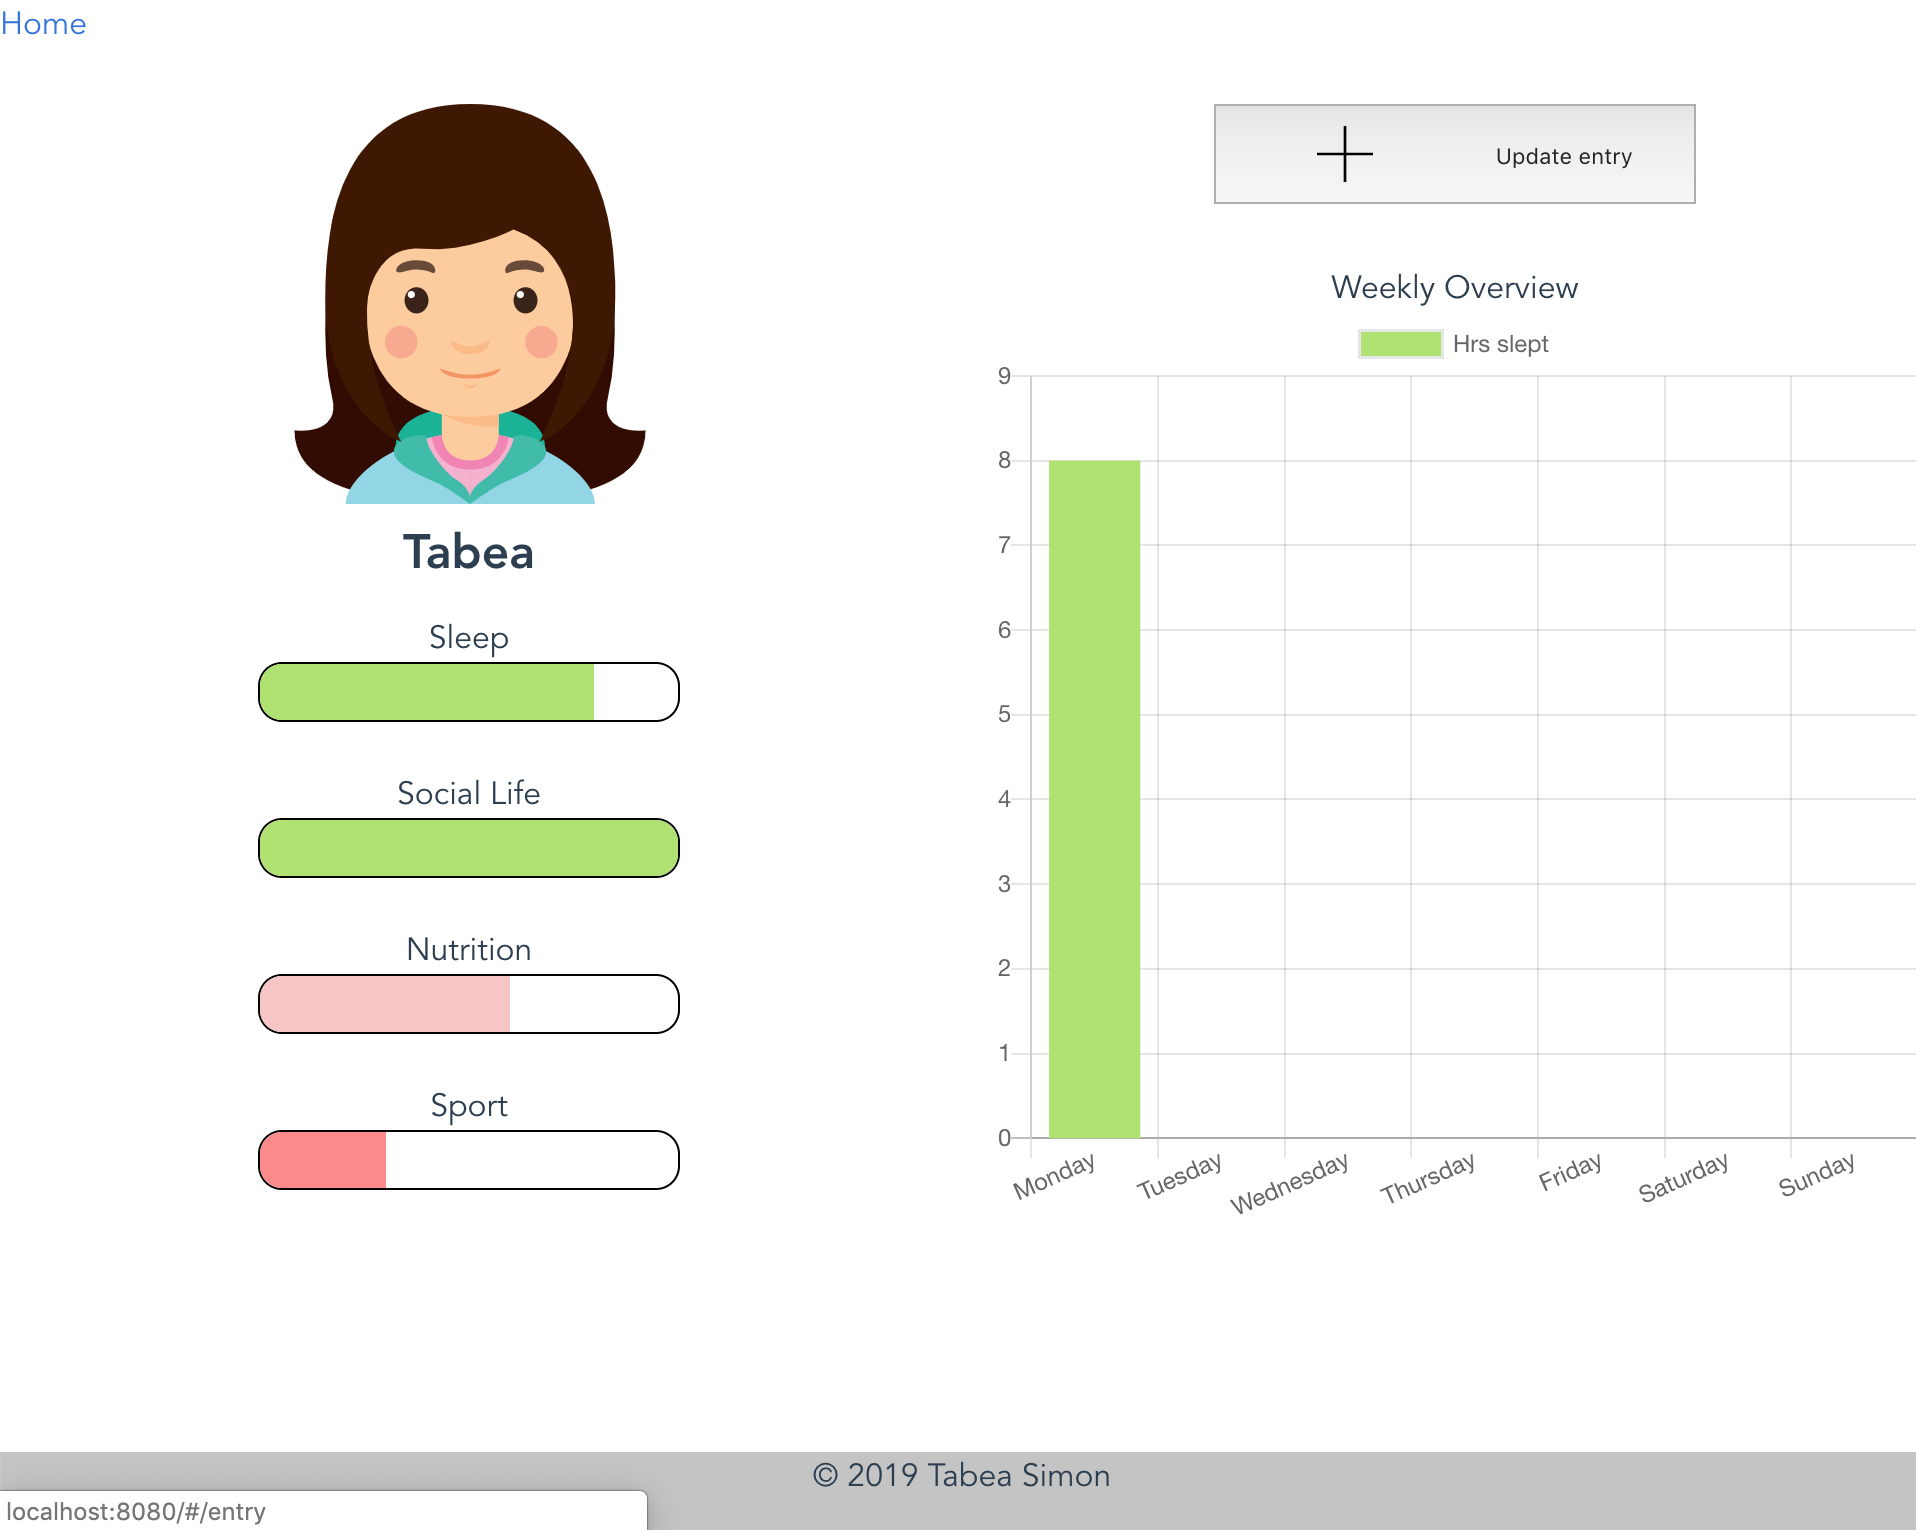
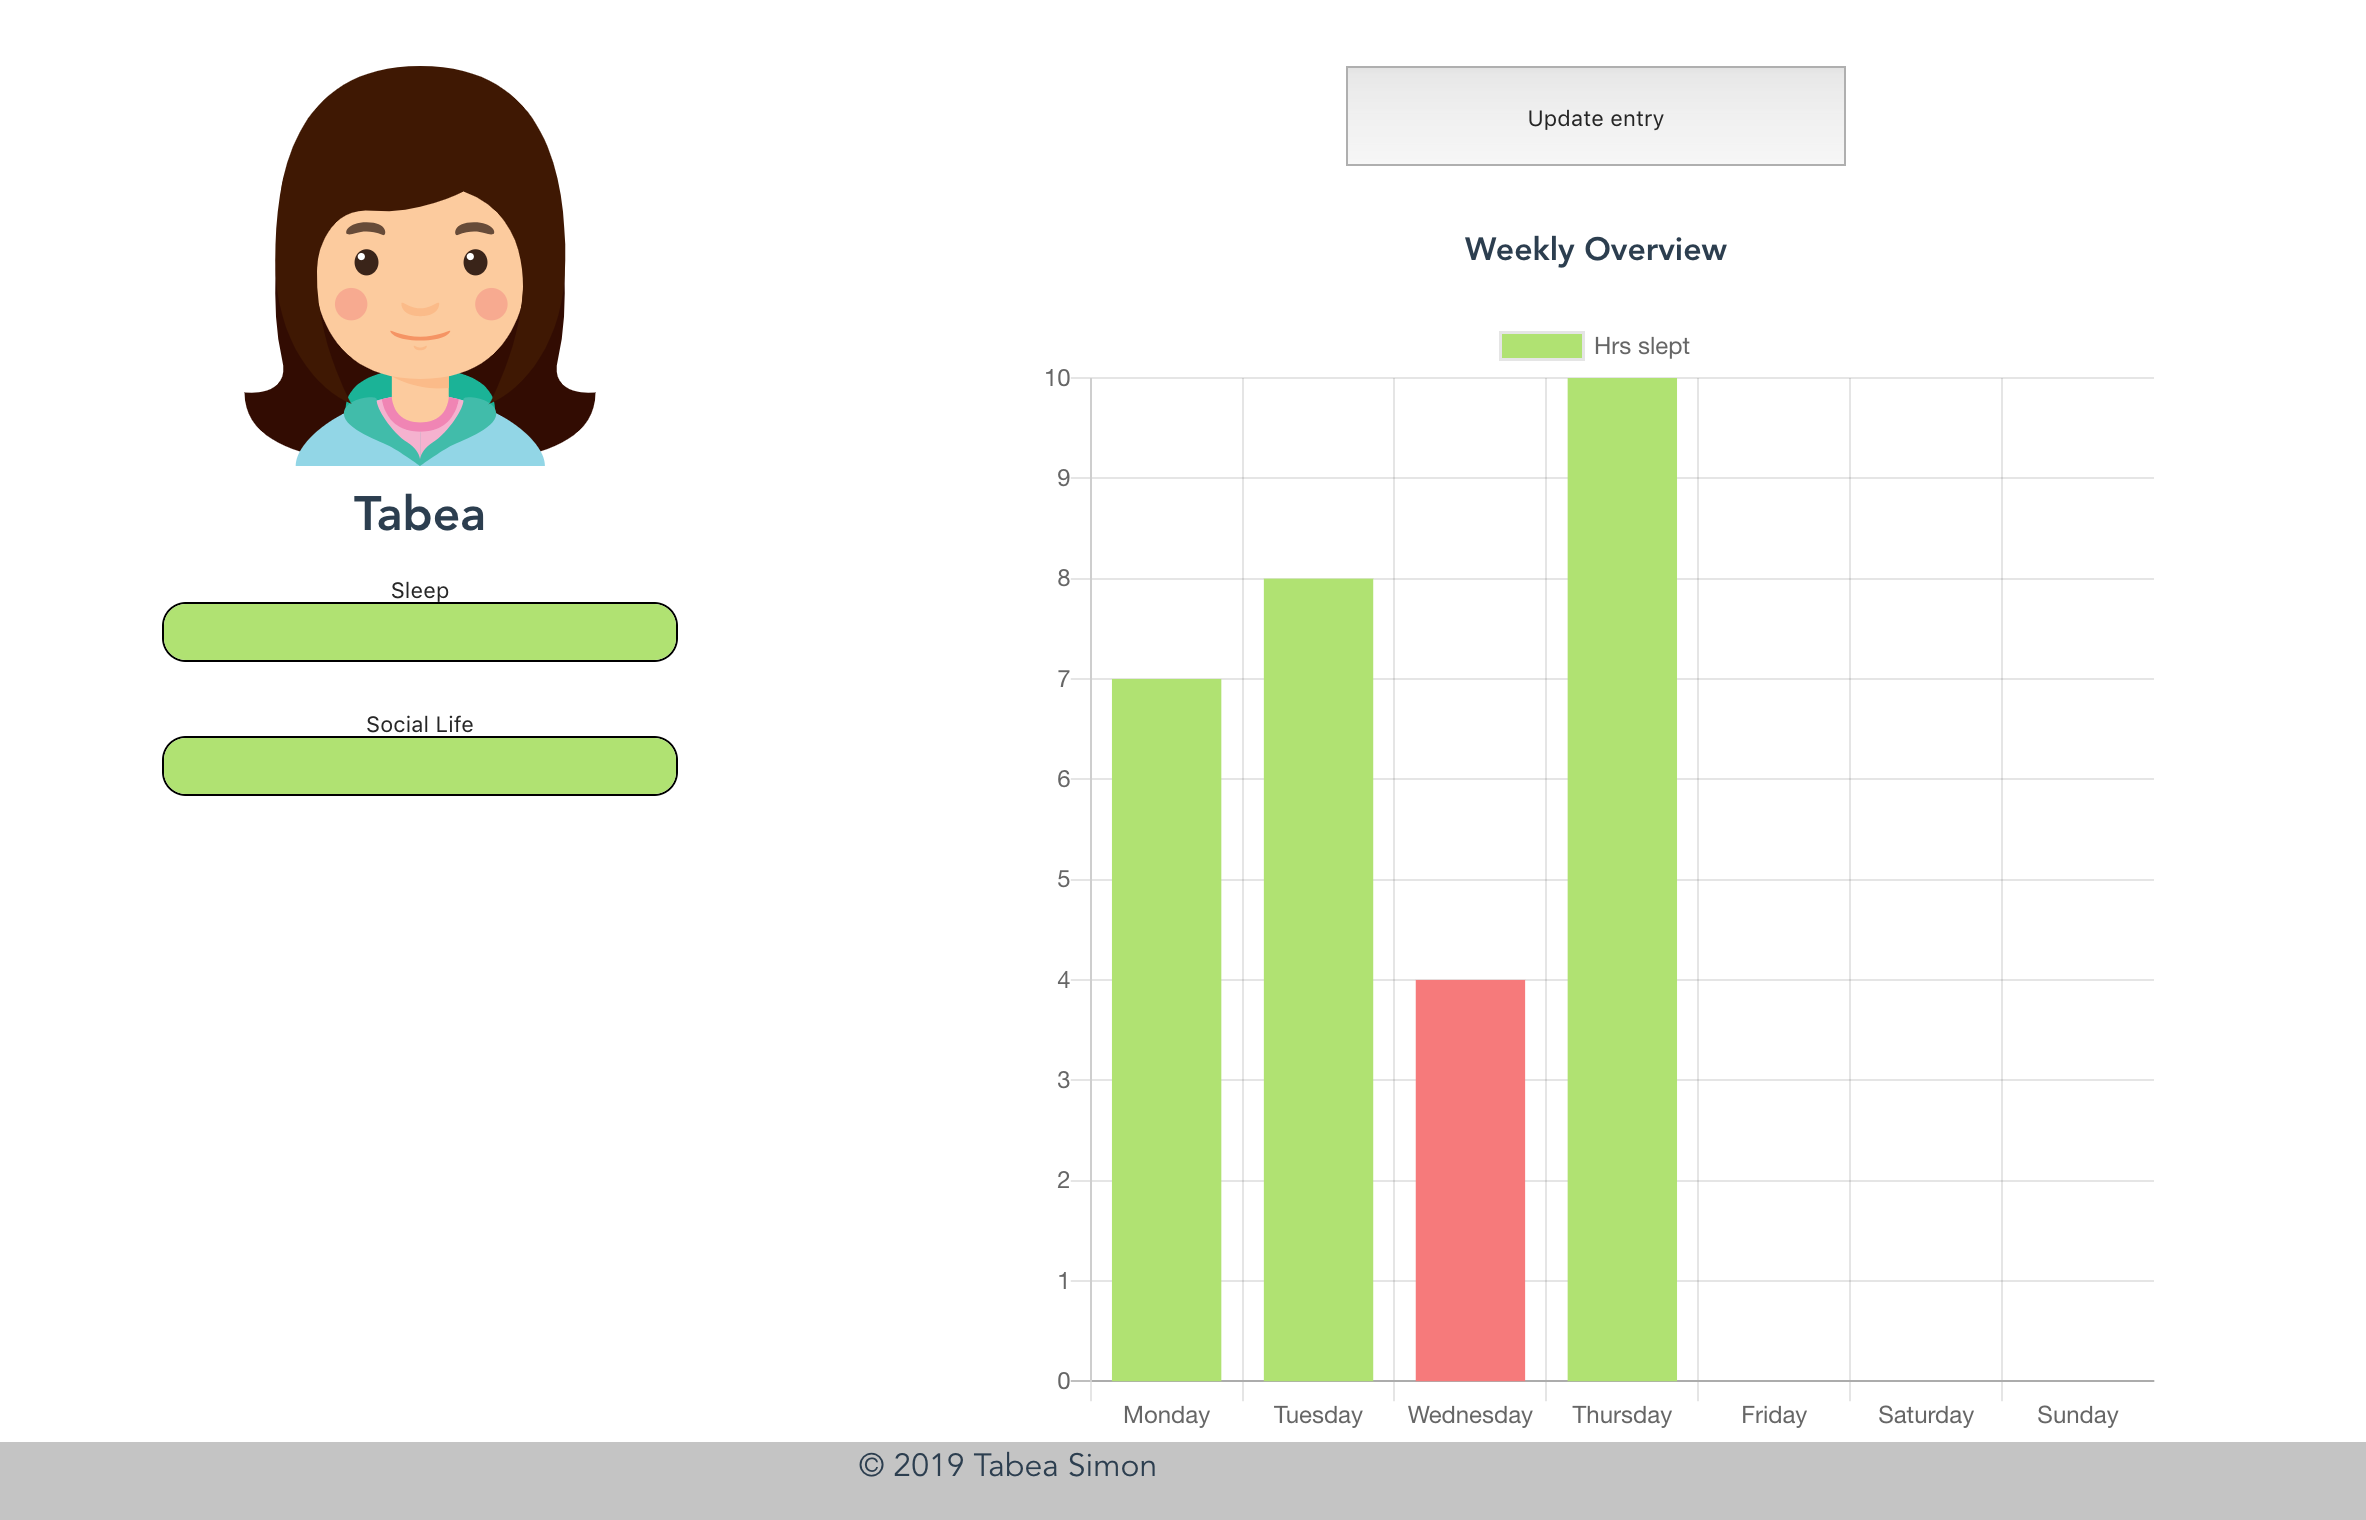
Adjust Social data + PR comments

diff --git a/src/store/index.js b/src/store/index.js
@@ -10,9 +10,7 @@ export const store = new Vuex.Store({
     state: {
         needs: [
             {id: 1, name: 'Sleep', status: 0},
-            {id: 2, name: 'Social Life', status: 0},
-            {id: 3, name: 'Nutrition', status: 60},
-            {id: 4, name: 'Sport', status: 30}
+            {id: 2, name: 'Social Life', status: 0}
         ],
         entries: [
             {sleep: [
@@ -45,7 +43,36 @@ export const store = new Vuex.Store({
                     hrsSlept: 0,
                 }
             ]},
-            {social: []}
+            {social: [
+                {
+                    weekday: "Monday",
+                    socialized: 0,
+                },
+                {
+                    weekday: "Tuesday",
+                    socialized: 0,
+                },
+                {
+                    weekday: "Wednesday",
+                    socialized: 0,
+                },
+                {
+                    weekday: "Thursday",
+                    socialized: 0,
+                },
+                {
+                    weekday: "Friday",
+                    socialized: 0,
+                },
+                {
+                    weekday: "Saturday",
+                    socialized: 0,
+                },
+                {
+                    weekday: "Sunday",
+                    socialized: 0,
+                }
+            ]}
         ],
         weeklyEntriesSleep: [],
         weeklyEntriesSocial: [],
@@ -127,8 +154,8 @@ export const store = new Vuex.Store({
                             timeStamp: time,
                         })
                         .then(() => {
-                            router.push({name:'home'})                          
-                        })
+                            router.push({name:'home'});                          
+                        });
                     } 
                     else {
                         // First entry of that date
@@ -140,8 +167,8 @@ export const store = new Vuex.Store({
                             weekday: weekDay
                         })
                         .then(() => {
-                            router.push({name:'home'})                          
-                        })
+                            router.push({name:'home'});                     
+                        });
                     } 
             });
         },
@@ -154,7 +181,8 @@ export const store = new Vuex.Store({
 
             // Get Social entry of the day
             firebase.firestore().collection('needs/2/social').where("timeStamp", ">", from_date).orderBy("timeStamp", "desc").get().then((querySnapshot)=>{
-                let social = []
+                let social = [];
+
                 querySnapshot.forEach(doc=>{
                   social.push(doc.data())
                 })
@@ -162,15 +190,20 @@ export const store = new Vuex.Store({
                     this.state.needs[1].status = social[0].socialized;
                 }
                 else {
-                    this.state.needs[1].status = 0
+                    this.state.needs[1].status = 0;
                 }
-            })
+            });
 
             // Get Sleep entries of the week
-            firebase.firestore().collection('needs/1/sleep').where("timeStamp", ">", from_date).orderBy("timeStamp", "desc").get().then((querySnapshot)=>{
+            firebase.firestore()
+            .collection('needs/1/sleep')
+            .where("timeStamp", ">", from_date)
+            .orderBy("timeStamp", "desc")
+            .get()
+            .then((querySnapshot)=>{
                 querySnapshot.forEach(doc=>{
-                    let day = this.state.entries[0].sleep.find(obj => obj.weekday == doc.data().weekday)
-                    day.hrsSlept = doc.data().hrsSlept
+                    let day = this.state.entries[0].sleep.find(obj => obj.weekday == doc.data().weekday);
+                    day.hrsSlept = doc.data().hrsSlept;
                 })
                 
                 // Set Needbar quantity to entry of current day 
@@ -185,37 +218,38 @@ export const store = new Vuex.Store({
                 this.state.chartColors = [];
                 this.state.weeklyEntriesSleep.forEach(entry => {
                     if (entry >= 7) {
-                        this.state.chartColors.push('rgb(175, 228, 107)')
+                        this.state.chartColors.push('rgb(175, 228, 107)');
                     } else {
-                        this.state.chartColors.push('#f87979')
+                        this.state.chartColors.push('#f87979');
                     }
                 });
             })
 
-            firebase.firestore().collection('needs/2/social').where("timeStamp", ">", from_date).orderBy("timeStamp", "asc").get().then((querySnapshot)=>{
+            // Get Social entries of the week
+            firebase.firestore()
+            .collection('needs/2/social')
+            .where("timeStamp", ">", from_date)
+            .orderBy("timeStamp", "asc")
+            .get()
+            .then((querySnapshot)=>{
                 querySnapshot.forEach(doc=>{
-                    this.state.entries[1].social.push(doc.data())
-
-                    if (doc.data().socialized > 10) {
-                        this.state.weeklyEntriesSocial.push(true)
-                    }
-                    else {
-                        this.state.weeklyEntriesSocial.push(false)
-                    }
+                    let day = this.state.entries[1].social.find(obj => obj.weekday == doc.data().weekday);
+                    day.socialized = doc.data().socialized;
                 })
+
+                // Create Array with social data for each weekday for chart
+                this.state.weeklyEntriesSocial = this.state.entries[1].social.map(a => a.socialized);
             });
             
             firebase.firestore().collection('users').get().then((querySnapshot)=>{
                 querySnapshot.forEach(doc=>{
-                    this.state.users.push(doc.data())
+                    this.state.users.push(doc.data());
                 })
 
-                if (this.state.needs[0].status != 0) {
-                    this.state.users[0].status = 'logged'
+                if (this.state.needs[0].status !== 0) {
+                    this.state.users[0].status = 'logged';
                 }
             })
-
         },
-    },
-    getter: {}
+    }
 })

diff --git a/src/components/Entry.vue b/src/components/Entry.vue
@@ -23,30 +23,30 @@ export default {
         Social
     },
     created(){
-        this.$store.state.users[0].status = 'empty'   
+        this.$store.state.users[0].status = 'empty';
     },
     computed: {
         hrsSleep(){
-            return this.$store.state.hrsSleep
+            return this.$store.state.hrsSleep;
         },
         userStatus(){
-            return this.$store.state.users[0].status
+            return this.$store.state.users[0].status;
         },
         icon(){
-            return "../assets/img/moon.svg"
+            return "../assets/img/moon.svg";
         }
     },
     methods: {
         save: function(){
-                this.$store.commit('updateEntrySleep', this.$store.state.needs[0].status)
+                this.$store.commit('updateEntrySleep', this.$store.state.needs[0].status);
             if (this.userStatus === 'empty') {
-                this.$store.commit('updateStatus', 'sleepLogged')
-                this.$store.dispatch('newSleepEntry')
+                this.$store.commit('updateStatus', 'sleepLogged');
+                this.$store.dispatch('newSleepEntry');
             }
             else if (this.userStatus === 'sleepLogged'){
-                this.$store.commit('updateEntrySocial', this.$store.state.needs[1].status)
-                this.$store.state.users[0].status = 'socialLogged'
-                this.$store.dispatch('newSocialEntry')                
+                this.$store.commit('updateEntrySocial', this.$store.state.needs[1].status);
+                this.$store.state.users[0].status = 'socialLogged';
+                this.$store.dispatch('newSocialEntry');               
             }
         }
     }
@@ -71,6 +71,5 @@ export default {
 
     button
         width: 200px
-
 
 </style>

diff --git a/src/components/WeeklyOverview.vue b/src/components/WeeklyOverview.vue
@@ -3,9 +3,8 @@
         <div class="icons">
             <div v-for="entry in entries" class="icon"
             :key="entry">
-                <img v-if="entry == true" src="../assets/img/smile.svg" />
-                <img v-else-if="entry == false" src="../assets/img/sad.svg" />
-                <img v-else src="../assets/img/moon.svg" />
+                <img v-if="entry == 100" src="../assets/img/smile.svg" />
+                <img v-else-if="entry == 10" src="../assets/img/sad.svg" />
             </div>
         </div>
         <div class="weekdays">
@@ -49,9 +48,5 @@ export default {
     .weekdays
         display: flex
         justify-content: space-between
-
-        .weekday
-
-
 
 </style>

diff --git a/src/components/NeedBar.vue b/src/components/NeedBar.vue
@@ -1,5 +1,5 @@
 <template>
-    <button class="container need" :class="{ active: isActive }" v-on:click="changeOverview(title)">
+    <button class="container need" v-on:click="changeOverview(title)">
         <h1> {{ title }}</h1>
         <div class="bar">
             <div class="needs-status" 

diff --git a/src/components/Home.vue b/src/components/Home.vue
@@ -96,7 +96,7 @@ export default {
   },
   methods: {
     switchOverview(overview) {
-      this.showOverview = overview
+      this.showOverview = overview;
     }
   }
 }

diff --git a/src/App.vue b/src/App.vue
@@ -56,6 +56,7 @@ body, html
   footer 
     height: 40px
     width: 100%
+    margin-top: 80px
     bottom: 0
     background-color: #C4C4C4
 

diff --git a/README.md b/README.md
@@ -3,16 +3,20 @@ The App lets you keep track of your basic needs: sleep, social life, nutrition a
 
 By filling in your needs daily and seeing a weekly overview you notice which needs to take better care of. 
 
-If a need is fulfilled the correlating need bar is green but if you for example don't get enough sleep the bar turns red.
+If a need is fulfilled the correlating need bar is green but if you, for example, don't get enough sleep the bar turns red.
 
 ![app dashboard](src/assets/img/dashboard.png)
 
+# Future Work
+- Add more needs: nutrition + sport
+- Add styling + improve responsiveness
+- Enable users to add friends and track who they talked to
 
 # Technology Stack
 Vue JS
 Google Firebase + Firestore
 SASS + Bulma
-
+Jest
 
 ## Project setup
 ```
@@ -23,14 +27,14 @@ git clone https://github.com/tabea89/need_tracker_app.git
 npm install
 ```
 
-### Compiles and hot-reloads for development
-```
-npm run serve
-```
-
 ### Compiles and minifies for production
 ```
 npm run build
+```
+
+### Compiles and hot-reloads for development
+```
+npm run serve
 ```
 
 ### Run your tests
